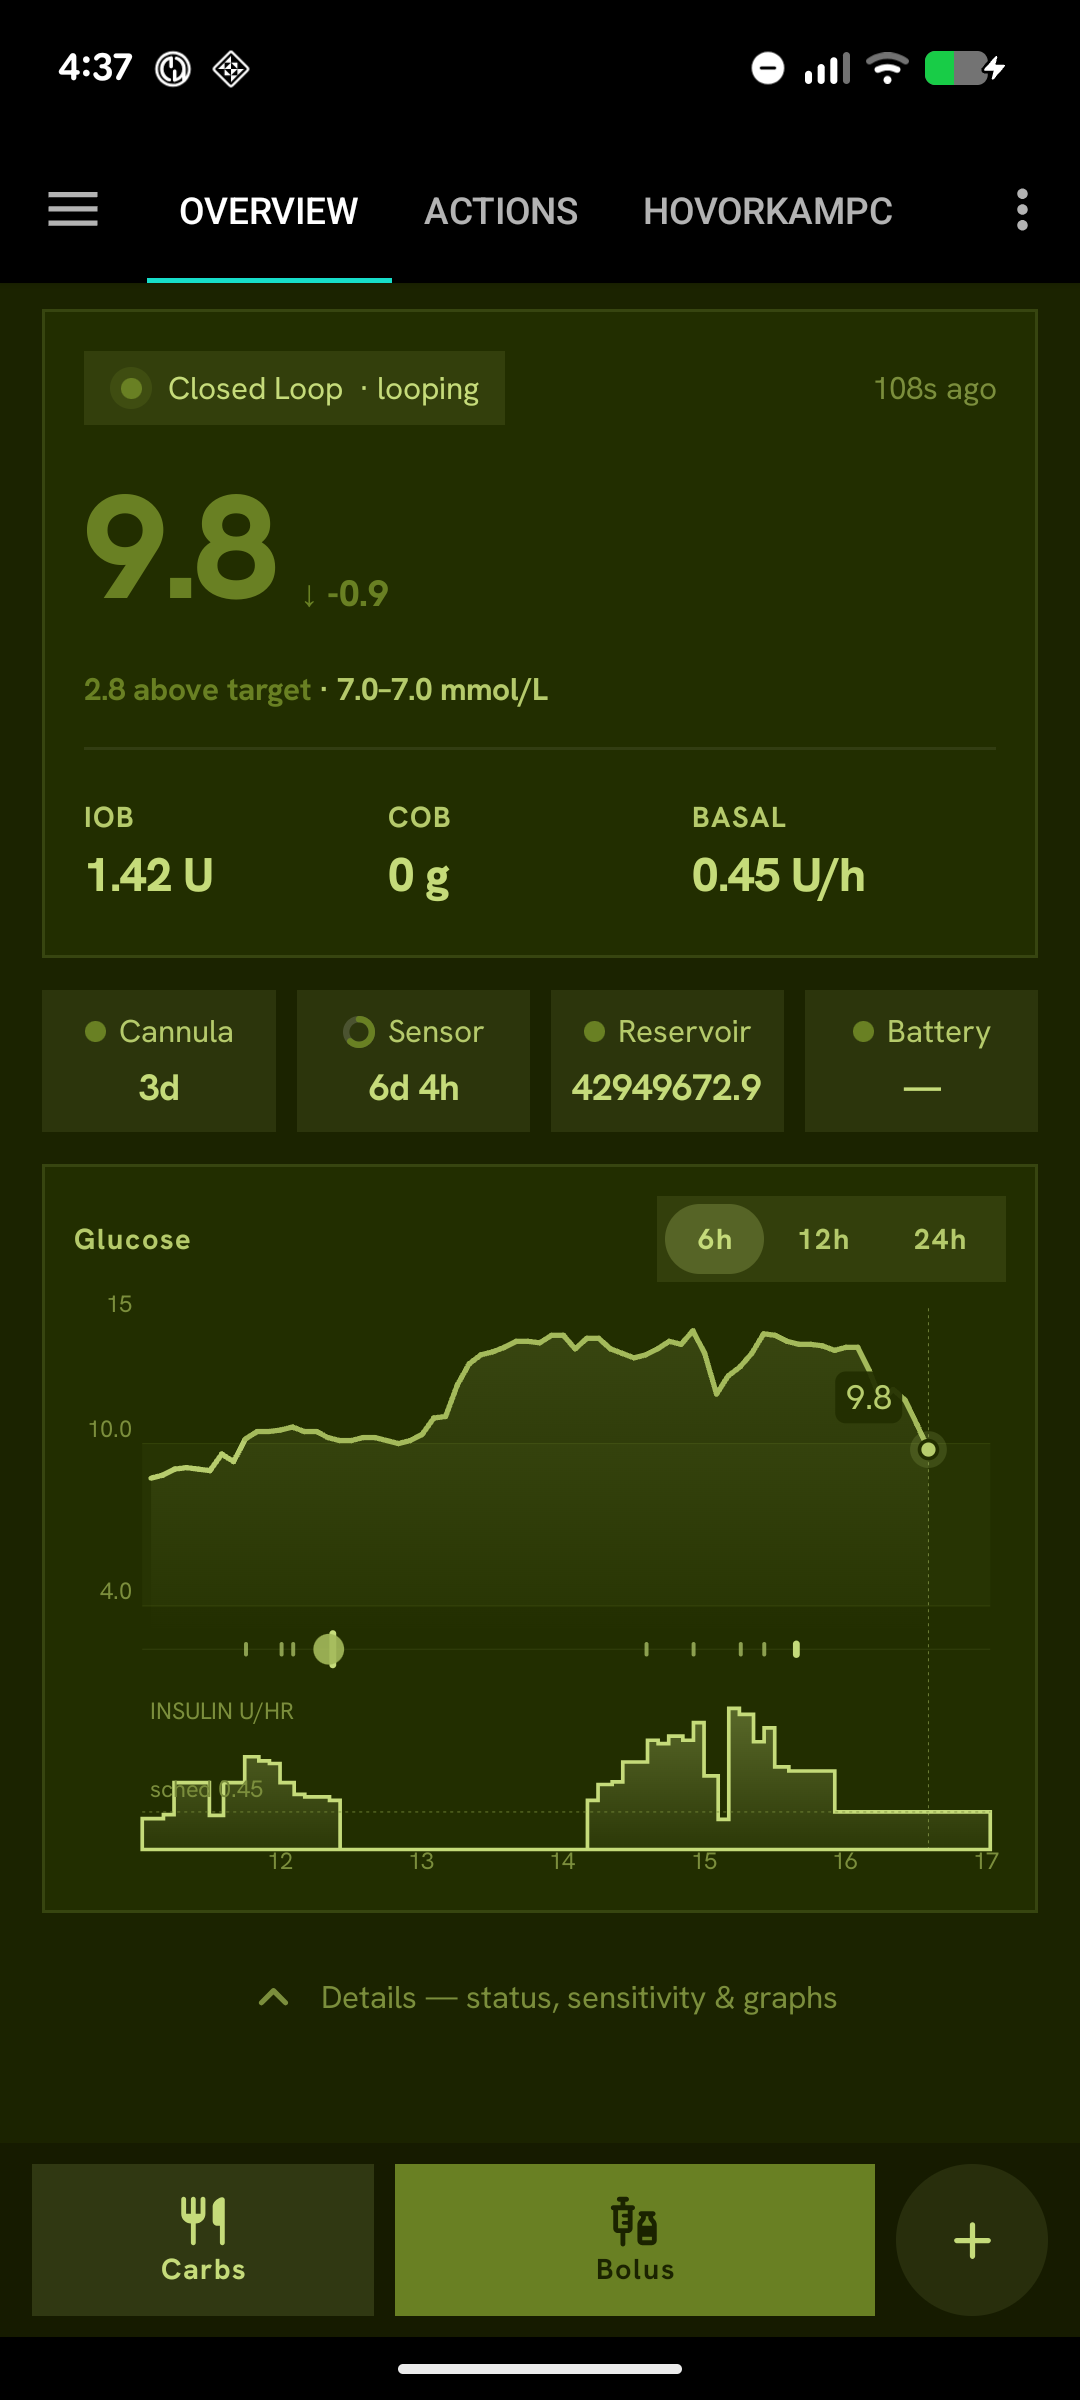
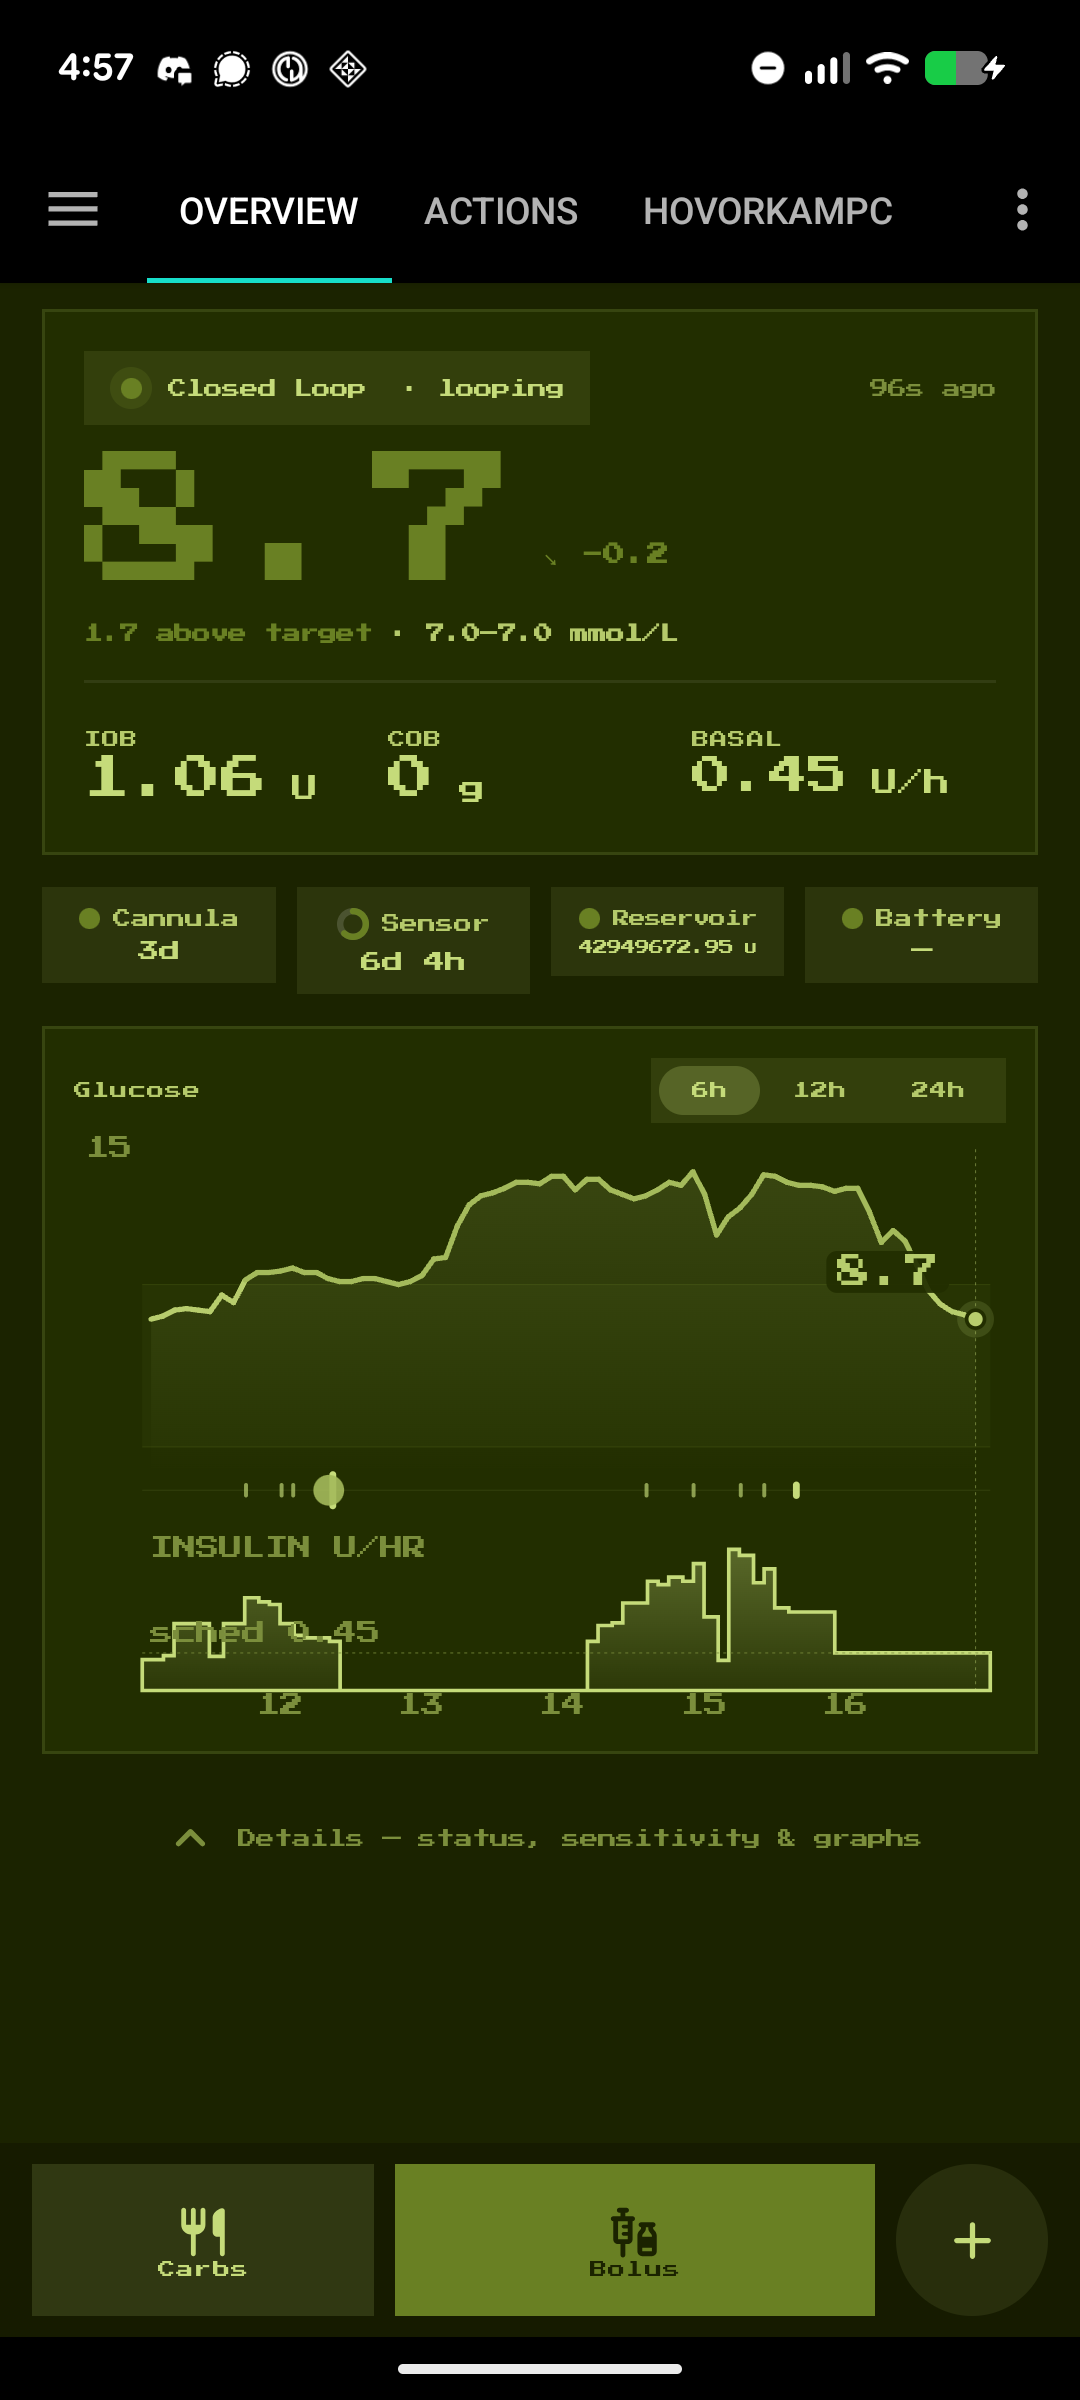
Update the Game Boy screenshot to the version with its font
The picture predated font loading, so it showed the palette and square corners
but the app's own typeface. Replaced with the same skin carrying Press Start 2P,
which is what the surrounding text describes. The worked example gains the font
block to match, plus a note that a bundle may carry the licence.

diff --git a/README.md b/README.md
@@ -223,7 +223,7 @@ rather than something compiled in. Changing it needs no rebuild.
 | | |
 |:---:|:---:|
 | <img src="docs/screenshots/skin-light.png" width="240" alt="Light theme"> | <img src="docs/screenshots/skin-gameboy.png" width="240" alt="Game Boy skin"> |
-| **Light** — the built-in light ground | **Game Boy** — a skin file: one hue, square corners |
+| **Light** — the built-in light ground | **Game Boy** — a skin file: one hue, square corners, 8-bit font |
 
 **Choosing one.** Settings → General → **Theme**. The list is flat — *Follow system*, *Light*, *Dark*,
 *Midnight*, then one entry per installed skin file. It is deliberately not two settings. A palette
@@ -246,6 +246,7 @@ is the entire Game Boy skin above:
   "label": "Game Boy",
   "author": "alex",
   "cornerRadius": 0,
+  "font": { "file": "dmg.ttf", "singleWeight": true, "scale": 0.6 },
   "dark": {
     "background": "#1B2300", "surface": "#222E00", "surface2": "#293800", "bar": "#161B00",
     "textPrimary": "#C5DB7A", "textSecondary": "#B5CA6B", "textTertiary": "#7B8E3C",
@@ -257,12 +258,12 @@ is the entire Game Boy skin above:
 ```
 
 `cornerRadius` is one number for the whole shape language — `0` squares every corner including the
-pills. Omitting `light` marks a single-look skin: it keeps its one palette whichever mode is set,
+pills. The font above is Press Start 2P (SIL Open Font License); a bundle may carry its `LICENSE` or
+`OFL.txt` alongside, which the importer keeps so the skin stays redistributable. Omitting `light` marks a single-look skin: it keeps its one palette whichever mode is set,
 rather than reverting to the default light ground and losing its identity. Colour names match the
-tokens in `core/compose/theme/Color.kt` one for one. A font is added with
-`"font": { "file": "dmg.ttf", "singleWeight": true }` — `singleWeight` stops the type scale asking a
-one-weight font for bolds it cannot draw, which would otherwise be synthesised and smear the edges a
-pixel font exists to keep sharp.
+tokens in `core/compose/theme/Color.kt` one for one. `singleWeight` stops the type scale asking a one-weight font for bolds it cannot
+draw, which would otherwise be synthesised and smear the edges a pixel font exists to keep sharp, and
+`scale` compensates for a face far wider per character than the one the layouts were drawn against.
 
 Numeric readouts set their unit much smaller than the number, and shrink to fit rather than
 truncating. That is worth knowing when writing a skin: a pixel face is roughly twice the width per
